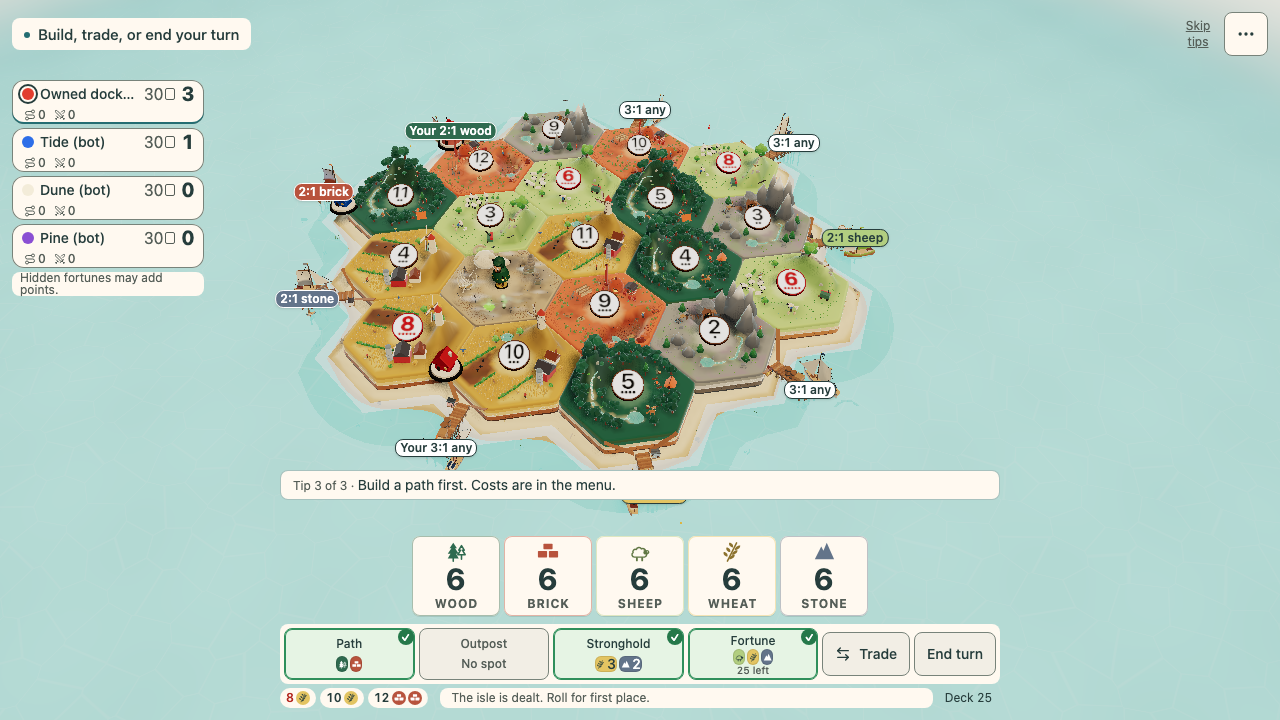
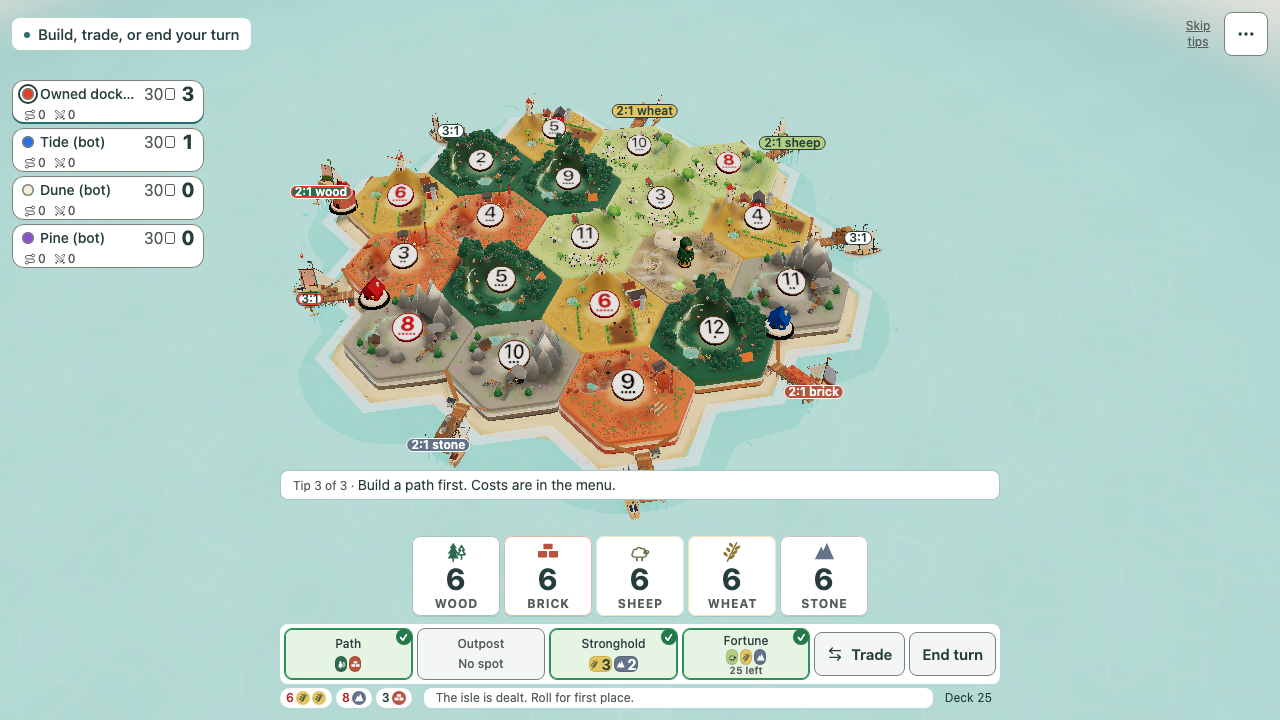
Shrink pier trade tags and keep them inside the board hole (#560)
Owner q881-all-docks: 12 px is the law 9 floor, so the tags get shorter
("3:1", "2:1 brick"), drop the shadow, and mark your dock with a seat-coloured
ring instead of "Your". The proof checks the box stays in the board hole.

diff --git a/src/components/scene/OwnedDockLabels.tsx b/src/components/scene/OwnedDockLabels.tsx
@@ -2,17 +2,21 @@ import { useGame } from "@/lib/game/store";
 import { RESOURCE_LABEL } from "@/lib/game/types";
 import type { OwnedDockPosition } from "@/lib/scene/isle-renderer";
 
-// #560. Owner 2026-11-03: every dock is tagged on the pier, and the words name the trade.
-// A dock you control starts with "Your". Owner 2026-10-16: the sails carry no rate.
-const trade = (d: OwnedDockPosition) =>
+// #560. Owner 2026-11-03 (q881-all-docks): tags are much smaller and stay inside the board hole.
+// Visible text is "3:1" or "2:1 brick". 12 px is the smallest law 9 allows, so the shrink is the shorter
+// words, no shadow and no vertical padding. A dock you control gets a 2 px inset ring in the seat colour,
+// not the word "Your". The accessible name still says "any" and "Yours". The sails carry no rate.
+const spoken = (d: OwnedDockPosition) =>
   d.kind === "any" ? "3:1 any" : `2:1 ${RESOURCE_LABEL[d.kind].toLowerCase()}`;
 
 export default function OwnedDockLabels({ docks }: { docks: readonly OwnedDockPosition[] }) {
   const owner = useGame((s) => s.screen === "play" && !s.spectator ? (s.mode === "hotseat" ? s.state?.current : s.localId) : null);
+  const seats = useGame((s) => s.state?.players);
   return <div data-board-overlay className="pointer-events-none fixed inset-0">
     {docks.map((d) => {
       const mine = d.owner !== null && d.owner === owner;
-      const line = mine ? `Your ${trade(d)}` : trade(d);
+      const words = spoken(d);
+      const color = mine ? seats?.find((p) => p.id === d.owner)?.color : undefined;
       const good = d.kind === "any" ? null : d.kind;
       return <div
         key={d.id}
@@ -20,18 +24,19 @@ export default function OwnedDockLabels({ docks }: { docks: readonly OwnedDockPo
         data-vertex-id={d.id}
         data-harbor={d.kind}
         data-owner-id={d.owner ?? ""}
+        data-ring={color ?? ""}
         data-rate={d.kind === "any" ? "3:1" : "2:1"}
         role="img"
-        aria-label={line}
-        className={"pointer-events-none absolute whitespace-nowrap rounded-control border border-line px-1 py-0.5 text-[12px] font-semibold leading-none shadow-sm" + (good ? "" : " bg-raised text-fg")}
+        aria-label={mine ? `Yours, ${words}` : words}
+        className={"pointer-events-none absolute whitespace-nowrap rounded-control border border-line px-1 py-0 text-[12px] font-semibold leading-none" + (good ? "" : " bg-raised text-fg")}
         style={{
           left: d.x,
           top: d.y,
-          // Keep the chip on the dock, and 8 px inside the screen edges.
-          translate: `clamp(calc(8px - ${d.x}px), -50%, calc(100vw - 8px - ${d.x}px - 100%)) -50%`,
+          translate: "-50% -50%",
           ...(good ? { background: `var(--${good})`, color: `var(--${good}-on)` } : {}),
+          ...(color ? { boxShadow: `inset 0 0 0 2px ${color}` } : {}),
         }}
-      >{line}</div>;
+      >{d.kind === "any" ? "3:1" : words}</div>;
     })}
   </div>;
 }

diff --git a/src/lib/scene/isle-renderer.ts b/src/lib/scene/isle-renderer.ts
@@ -1571,19 +1571,26 @@ export class IsleRenderer {
     }
   }
 
-  // Chip center on the pier plate. Step along the coast when that box would cover the building or leave the screen.
+  // Chip center on the pier plate. Step along the coast when that box would cover the building.
+  // The box stays inside the board hole: 12 px "2:1 brick" plus a 2 px ring needs 40 by 12 px of room.
   private labelPoint(id: string, vertex: { x: number; z: number }, top: number): { x: number; y: number } | null {
     const spot = this.dockPlates.get(id);
     if (!spot) return null;
     const plate = this.screenAt(spot.x, spot.y, spot.z), house = this.screenAt(vertex.x, top, vertex.z);
     let dx = plate.x - house.x, dy = plate.y - house.y, n = Math.hypot(dx, dy) || 1;
     dx /= n; dy /= n;
-    const W = innerWidth, H = innerHeight;
-    for (const k of [0, 72, -72, 144, -144]) {
-      const x = Math.min(Math.max(plate.x - dy * k, 60), W - 60), y = Math.min(Math.max(plate.y + dx * k, 20), H - 20);
-      if (Math.abs(x - house.x) >= 52 || Math.abs(y - house.y) >= 12) return { x, y };
+    const r = this.renderer.domElement.getBoundingClientRect(), i = this.insets();
+    const minX = r.left + i.left + 40, maxX = r.right - i.right - 40;
+    const minY = r.top + i.top + 12, maxY = r.bottom - i.bottom - 12;
+    const clamp = (k: number) => ({
+      x: Math.min(Math.max(plate.x - dy * k, Math.min(minX, maxX)), Math.max(minX, maxX)),
+      y: Math.min(Math.max(plate.y + dx * k, Math.min(minY, maxY)), Math.max(minY, maxY)),
+    });
+    for (const k of [0, 36, -36, 72, -72]) {
+      const p = clamp(k);
+      if (Math.abs(p.x - house.x) >= 36 || Math.abs(p.y - house.y) >= 10) return p;
     }
-    return plate;
+    return clamp(0);
   }
 
   // One pier, two corners. The chip clears the corner that has a building.
